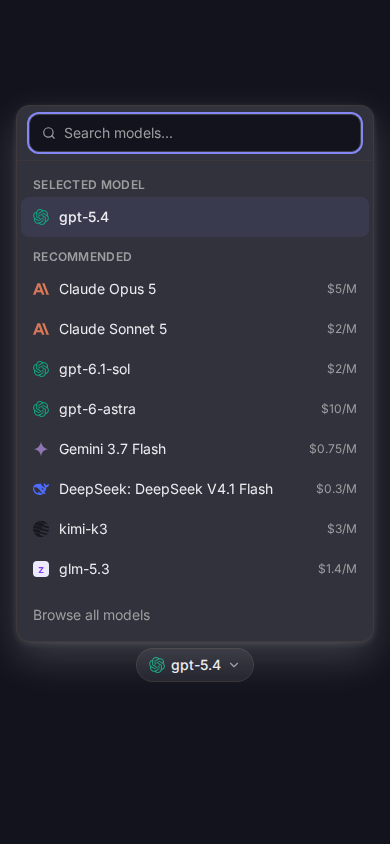
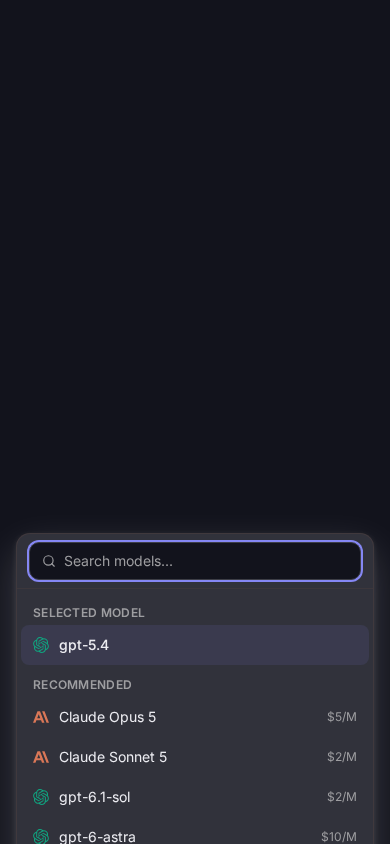
fix(model-picker): withhold unserved routes from recommendations

diff --git a/src/runtime/model-catalog.ts b/src/runtime/model-catalog.ts
@@ -145,6 +145,8 @@ const DEFAULT_CANDIDATE_RULES: Array<{ providers: string[]; match: RegExp }> = [
  * checks, not claims about a model's launch month. Never promote an older
  * generation merely because a newer route becomes unavailable; browsing and
  * search retain it. A newer routeable version in a family replaces its peer.
+ * DeepSeek V4.1 Flash and Kimi K3 remain searchable but are excluded until
+ * a live completion succeeds (2026-09-29 probes: quota 503 and server 500).
  */
 const RECOMMENDED_FAMILIES: Array<{
   provider: string
@@ -156,9 +158,7 @@ const RECOMMENDED_FAMILIES: Array<{
   { provider: 'openai', match: /^gpt-\d+(?:\.\d+)?-sol$/, minVersion: [6] },
   { provider: 'openai', match: /^gpt-\d+(?:\.\d+)?-astra$/, minVersion: [6] },
   { provider: 'google', match: /^gemini-\d+(?:\.\d+)?-flash(?:-preview)?$/, minVersion: [3, 5] },
-  { provider: 'deepseek', match: /^deepseek-v\d+(?:\.\d+)*(?:-flash)?$/, minVersion: [4, 1] },
   { provider: 'zai', match: /^glm-\d+(?:\.\d+)?$/, minVersion: [5, 3] },
-  { provider: 'moonshot', match: /^kimi-k\d+(?:\.\d+)?$/, minVersion: [3] },
 ]
 
 const RECOMMENDATION_WINDOW_MS = 120 * 24 * 60 * 60 * 1000

diff --git a/src/stories/chat-controls/ModelPicker.stories.tsx b/src/stories/chat-controls/ModelPicker.stories.tsx
@@ -65,7 +65,7 @@ const currentModels = buildCatalog([
   { id: 'claude-opus-4-7', _provider: 'anthropic', routeability: { status: 'routeable' } },
 ]).models
 
-/** Current choices open first; an older selected model stays visible. */
+/** Served current choices open first; search and browse retain older routes. */
 export const FreshnessOrdering: Story = {
   name: 'Current Router menu',
   decorators: [withPopoverHeadroom],

diff --git a/docs/ui-picker-canon.md b/docs/ui-picker-canon.md
@@ -40,7 +40,7 @@ Harness extensions remain reserved for native controls that their provider expli
 ## Current model menu
 
 `ModelPicker` opens with a bounded shortlist from the live Router catalogue.
-The catalogue recommends the newest routeable member of each current family, including DeepSeek, GLM, and Kimi choices when Router lists them as routeable.
+The catalogue recommends the newest routeable member of each current family, including GLM 5.3, which served the live probe.
 The Router response checked on 2026-09-29 contained no release dates, so the fallback uses family versions and a conservative generation floor; it does not claim a launch occurred within 120 days.
 If Router supplies an explicit release date, a model older than 120 days does not enter the shortlist.
 An explicitly unavailable route never enters the catalogue, even if its name looks newer.
@@ -49,7 +49,9 @@ The search field covers every routeable chat model.
 "Browse all models" opens provider groups for older and specialty models.
 An older selected value remains visible above the shortlist until the user changes it.
 The product's configured default does not change when display order changes.
-The menu can recommend up to eight models, with distinct choices from the current Anthropic, OpenAI, Google, DeepSeek, Z.ai, and Moonshot families.
+The menu can recommend up to eight models.
+The 2026-09-29 Router probe served GLM 5.3 but returned a quota error for DeepSeek V4.1 Flash and a server error for Kimi K3.
+Those two remain searchable; they can enter the shortlist after the Router serves them successfully.
 
 ![The short current menu and explicit legacy browse action](./assets/model-picker/freshness-ordering.png)
 
